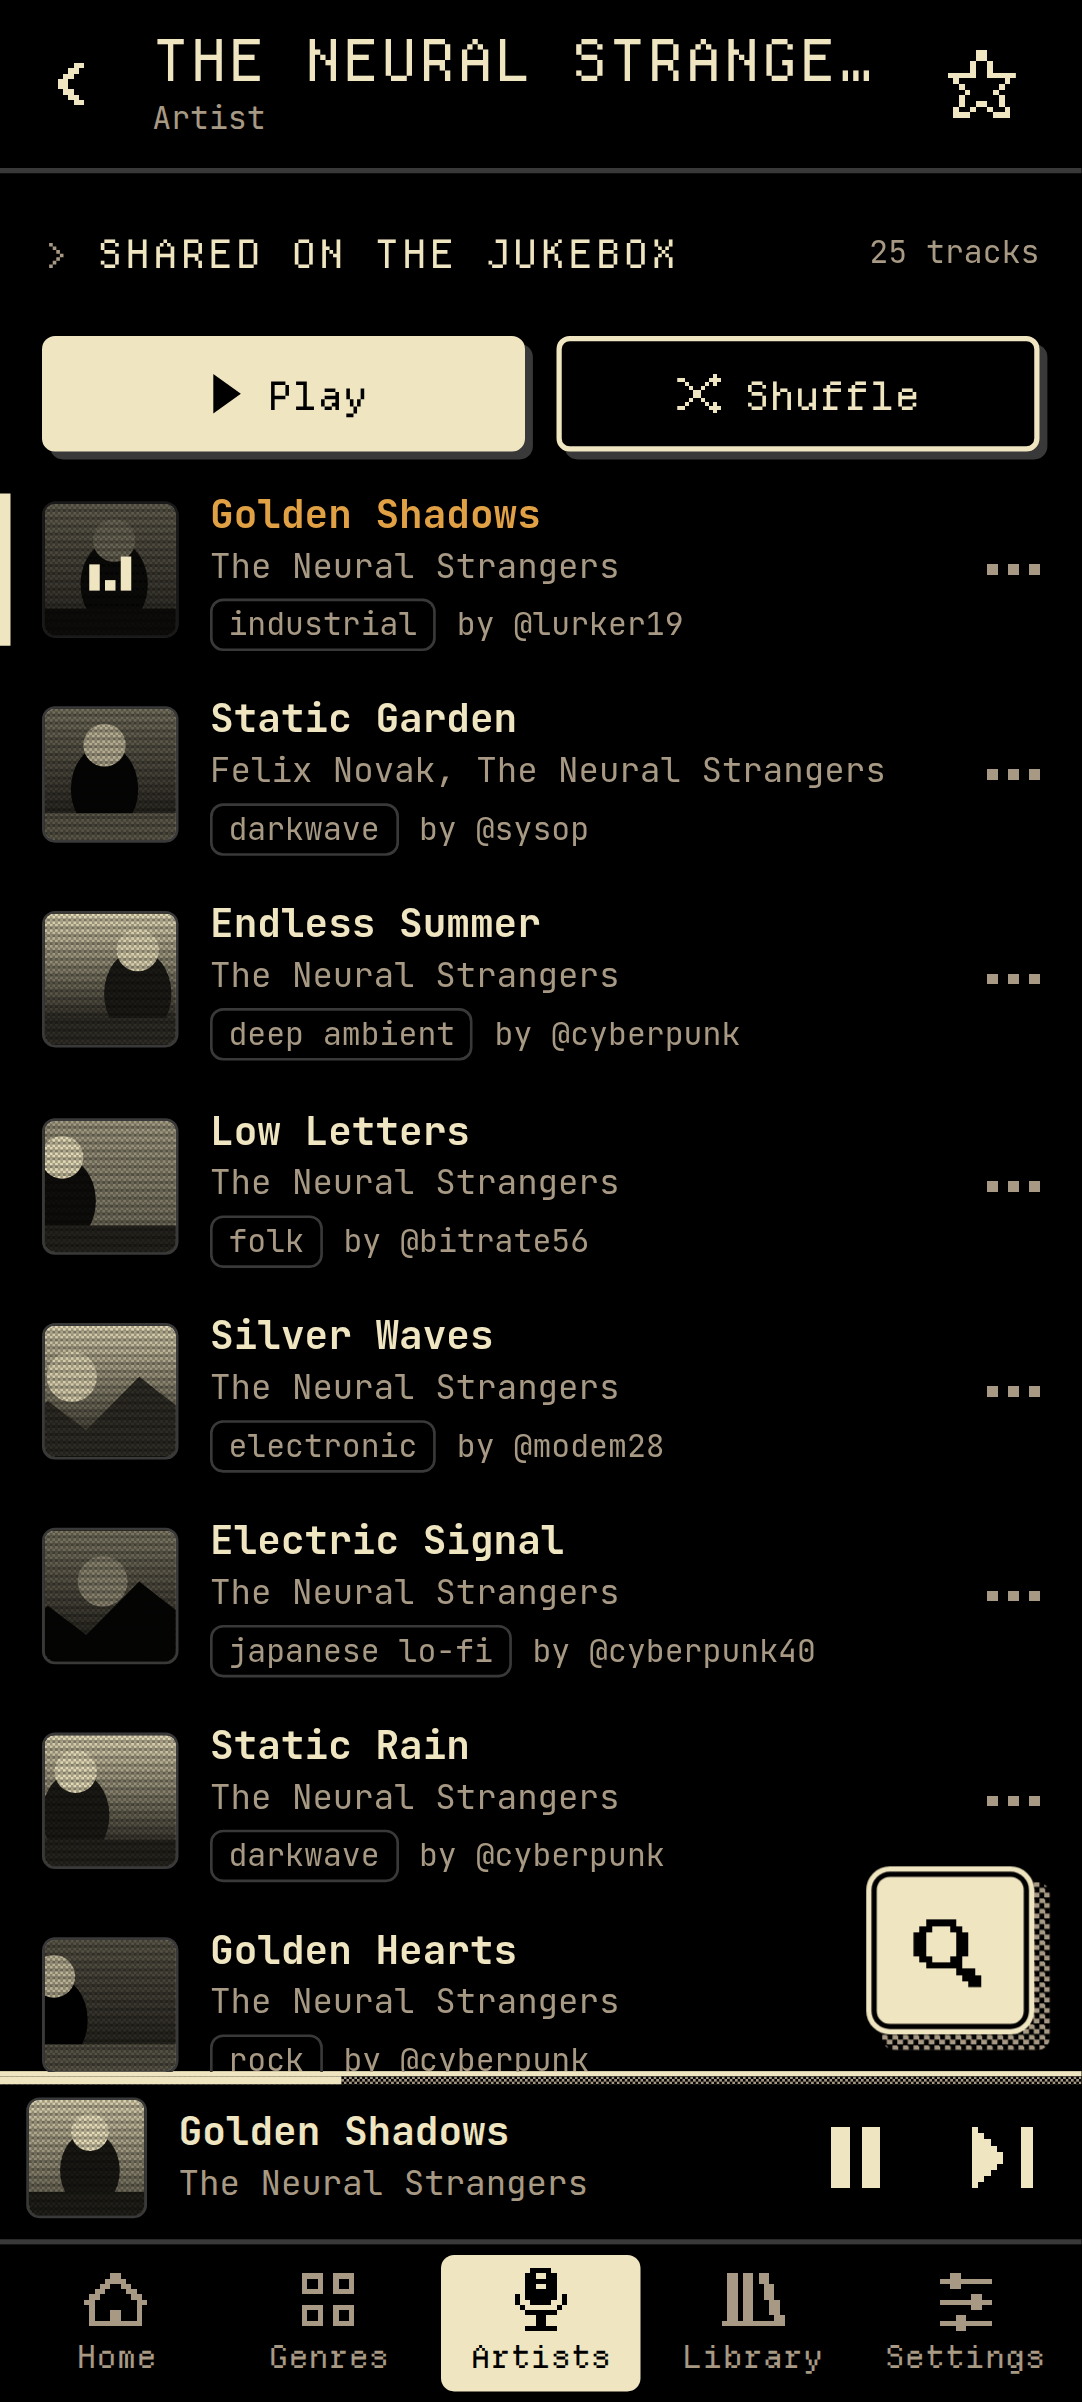
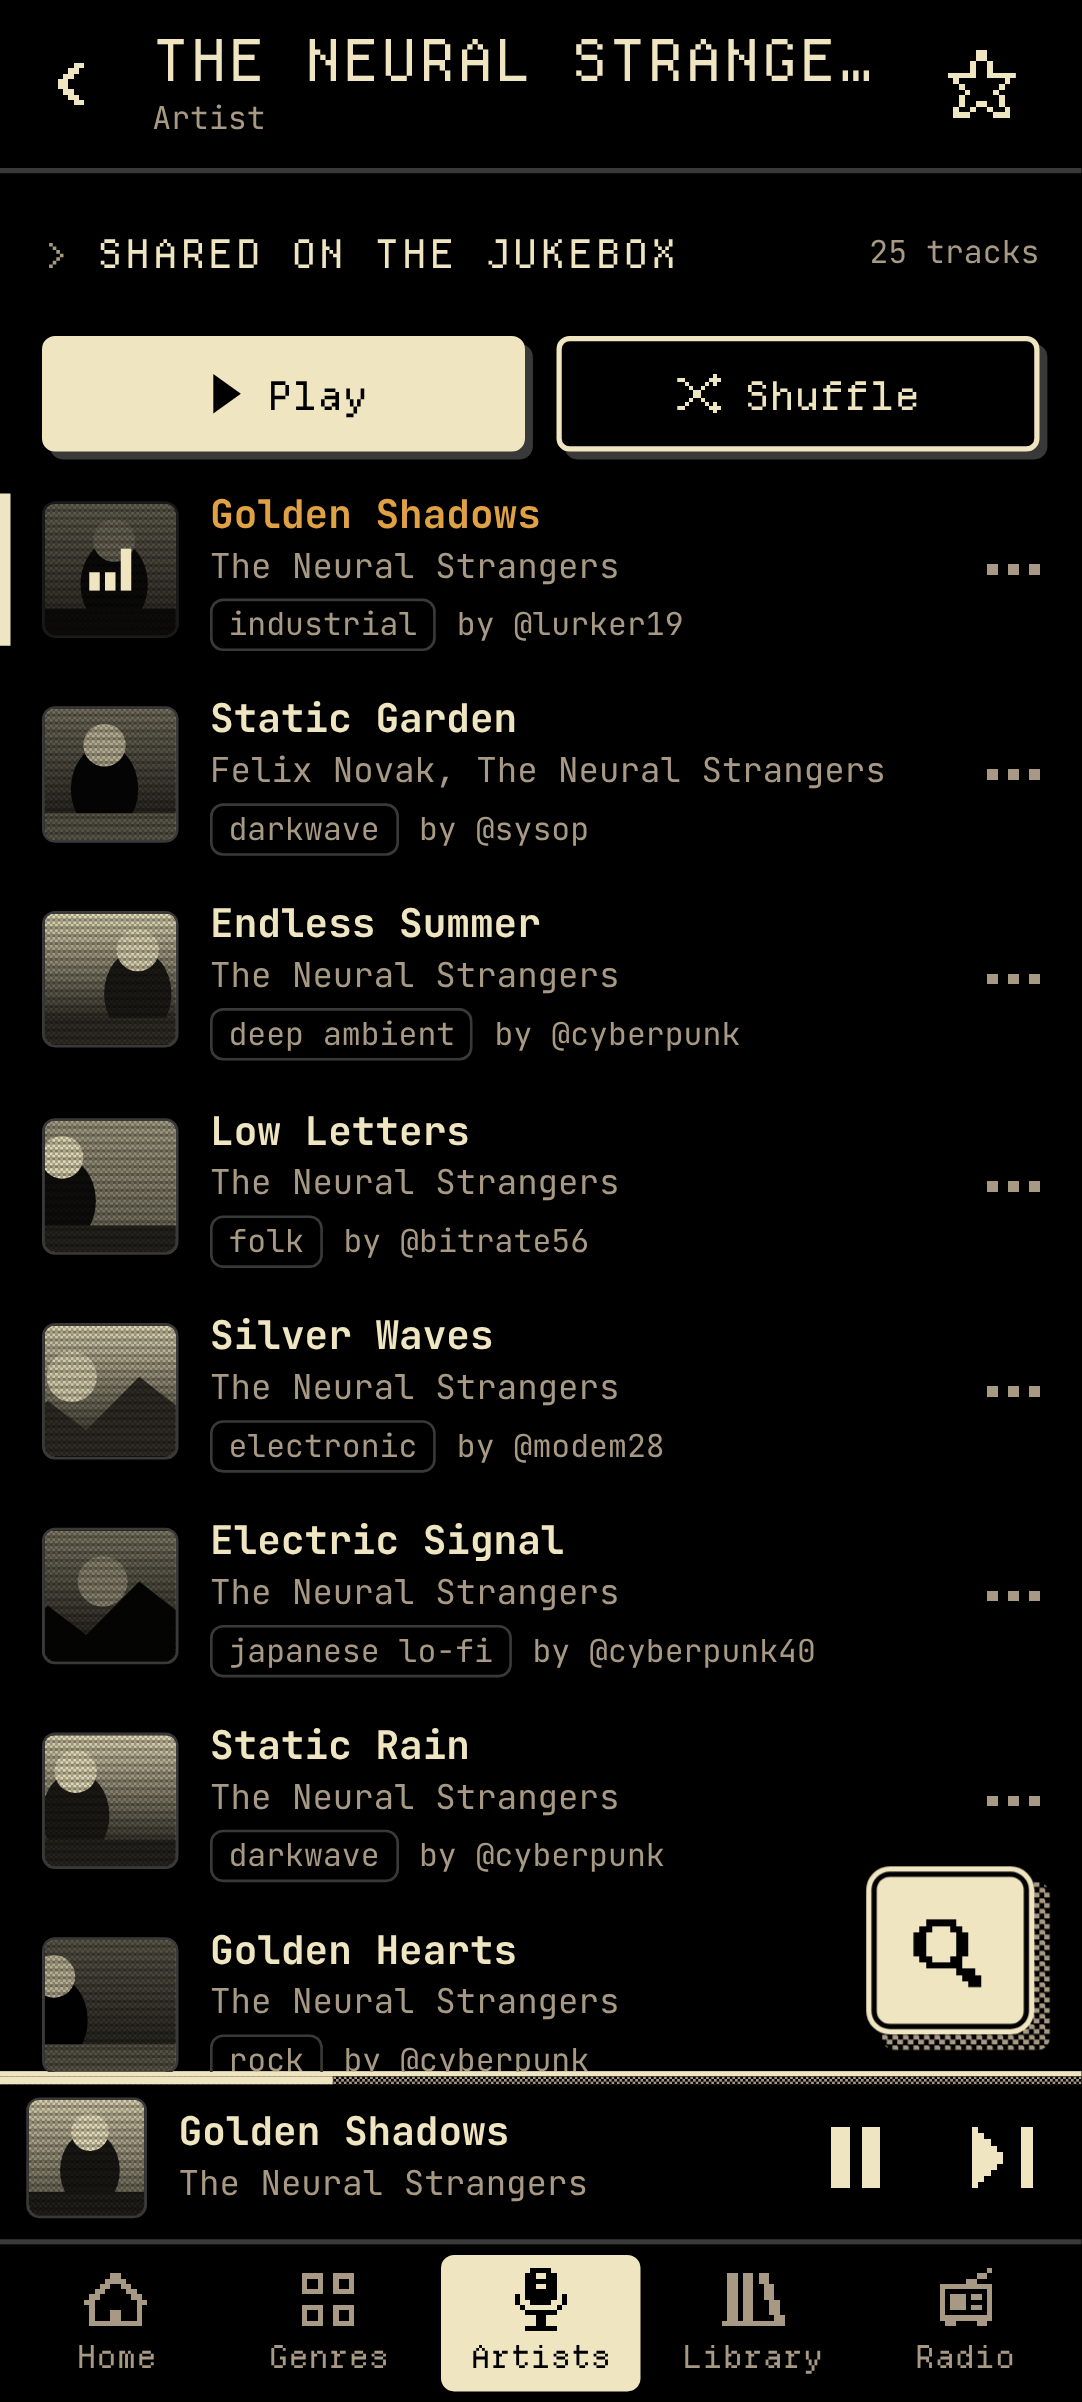
Release: README and store screenshots with the Radio tab
The README highlights and the store's phone screenshots still showed the
1.2.0 tab bar with a Settings tab. Regenerated with npm run media from the
1.3.0 tree (five tabs, Settings at the top right of Home), and a Signal
Radio shot added: a new README highlight and the store's ninth screenshot.

Claude-Session: https://claude.ai/code/session_01LcskpZbCc2TDSFP2Zc2qoc

Changed region(s): [[0.8235, 0.9367, 0.9455, 0.9992], [0.427, 0.8743, 0.4575, 0.9055]]

diff --git a/tests/screenshots/media.spec.ts b/tests/screenshots/media.spec.ts
@@ -112,6 +112,13 @@ test('README highlights', async ({ page }) => {
   await page.getByTestId('tab-library').click();
   await settle(page);
   await shot(page, 'media-09-library');
+
+  // Signal Radio, a station on air.
+  await page.getByTestId('tab-radio').click();
+  await page.getByTestId('station-tune').first().click();
+  await expect(page.getByTestId('station-on')).toBeVisible();
+  await settle(page);
+  await shot(page, 'media-10-radio');
 });
 
 // One test per theme: each gets a fresh page, so its seeded settings apply.

diff --git a/README.md b/README.md
@@ -24,6 +24,7 @@ The Cyberspace Jukebox is where people on Cyberspace share the music they love, 
 | <img src="media/screenshots/home.png" width="230" alt="Home"><br>**Home**: the latest Jukebox posts, genre filters and Shuffle | <img src="media/screenshots/now-playing.png" width="230" alt="Now Playing"><br>**Now Playing**: big artwork, seek, shuffle, repeat, like | <img src="media/screenshots/up-next.png" width="230" alt="Up next"><br>**Up next**: your queue first, then autoplay of similar songs |
 | <img src="media/screenshots/lyrics.png" width="230" alt="Lyrics"><br>**Synced lyrics**: tap the artwork, in any language | <img src="media/screenshots/artist.png" width="230" alt="Artist page"><br>**Artist pages**: what people shared, then the discography | <img src="media/screenshots/genre.png" width="230" alt="Genre page"><br>**Genres**: every genre, with Play and Shuffle |
 | <img src="media/screenshots/search.png" width="230" alt="Search"><br>**Search**: the whole Jukebox, typo-tolerant, or Global | <img src="media/screenshots/here-search.png" width="230" alt="Here search on the Genres tab"><br>**Here**: search just the page you're on | <img src="media/screenshots/library.png" width="230" alt="Library"><br>**Library**: liked tracks and recently played |
+| <img src="media/screenshots/radio.png" width="230" alt="Signal Radio"><br>**Signal Radio**: hyphen8d's curated stations, played on and on | | |
 
 ## Features
 
